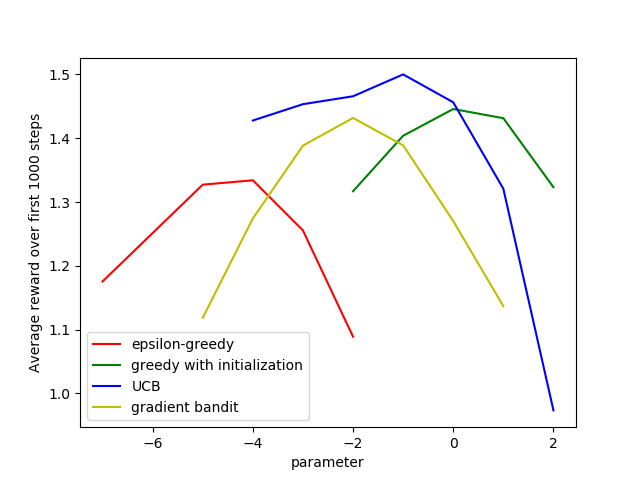
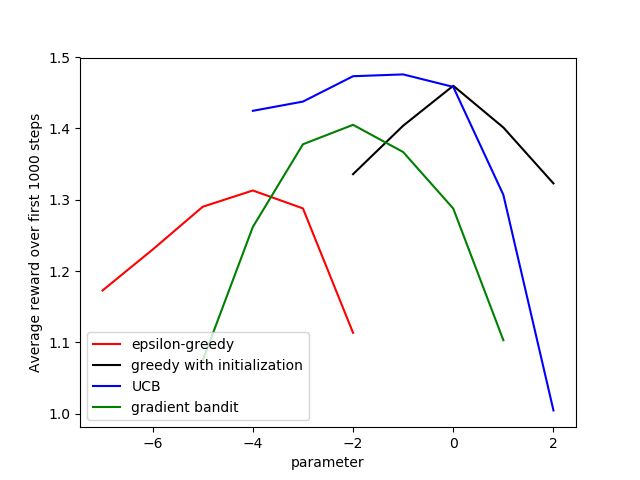
update chap02-exercise

diff --git a/chap02/exercise.py b/chap02/exercise.py
@@ -1,7 +1,7 @@
 # -*- coding: utf-8 -*-
 """
 @Time    : 2018/9/19 下午3:42
-@Author  : Guohai
+@Author  : Guohai (xuguohai7@163.com)
 @Declare :
     1. Codes for some exercises of chapter 2 in Sutton & Barto's Reinforcement Learning: An Introduction (2nd Edition)
     2. Most of codes are modified from ShangtongZhang, but rewrite the codes to make it easy to understand.
@@ -197,7 +197,7 @@ def simulate(bandits, runs, times):
 
 
 # ************************ Exercise 2.5 ************************
-def exercise2_5(runs=2000, times=10000):
+def exercise2_5(runs=20, times=100):        # 2000, 10000
     bandits = []
     bandits.append(EpsilonGreedy(epsilon=0.1, average_sample=True))
     bandits.append(EpsilonGreedy(epsilon=0.1, average_sample=False, step_size=0.1))
@@ -222,10 +222,11 @@ def exercise2_5(runs=2000, times=10000):
 
     plt.savefig('./images/exercise2_5.png')
     plt.show()
+    plt.close()
 
 
 # ************************ Exercise 2.11 ************************
-def exercise2_11(runs=2000, times=200000):
+def exercise2_11(runs=20, times=200):    # 2000, 200000
     generators = [
         lambda epsilon: EpsilonGreedy(epsilon=epsilon),
         lambda initial: EpsilonGreedy(average_sample=False, initial_value=initial, step_size=0.1),
@@ -264,6 +265,7 @@ def exercise2_11(runs=2000, times=200000):
 
     plt.savefig('./images/exercise2_11.png')
     plt.show()
+    plt.close()
 
 
 if __name__ == '__main__':

diff --git a/chap02/bandit.py b/chap02/bandit.py
@@ -10,7 +10,7 @@
 #######################################################################
 """
 @Time    : 2018/9/14 上午9:16
-@Author  : Guohai
+@Author  : Guohai (xuguohai7@163.com)
 @Declare :
     1.Codes for figures of chapter 2 in Sutton & Barto's Reinforcement Learning: An Introduction (2nd Edition)
     2.Most of codes are modified from ShangtongZhang, but rewrite the codes to make it easy to understand.

diff --git a/chap02/Chap2-Exercise.md b/chap02/Chap2-Exercise.md
@@ -13,12 +13,17 @@
 > and another action-value method using a constant step-size parameter, $\alpha$ = 0.1. Use
 > $\epsilon$ = 0.1 and longer runs, say of 10,000 steps.
 
-
+![exercise2_5](./images/exercise2_5.png)
 
 ## Exercises 2.11
 
-Exercise 2.11 (programming) Make a figure analogous to Figure 2.6 for the nonstationary
-case outlined in Exercise 2.5. Include the constant-step-size $\epsilon$-greedy algorithm with
-$\alpha$=0.1. Use runs of 200,000 steps and, as a performance measure for each algorithm and
-parameter setting, use the average reward over the last 100,000 steps.
+> Exercise 2.11 (programming) Make a figure analogous to Figure 2.6 for the nonstationary
+> case outlined in Exercise 2.5. Include the constant-step-size $\epsilon$-greedy algorithm with
+> $\alpha$=0.1. Use runs of 200,000 steps and, as a performance measure for each algorithm and
+> parameter setting, use the average reward over the last 100,000 steps.
 
+The **200,000** steps will take too much time, therefore I only run **20,000** steps. 
+
+![exercise2_11](./images/exercise2_11.png)
+
+> Feel free to discuss with me if you have any questions！【Homepage：https://guohai93.github.io  Email：xuguohai7@163.com】

diff --git a/README.md b/README.md
@@ -13,6 +13,8 @@ Python implementation for Sutton & Barto's [Reinforcement Learning: An Introduct
 4. [Figure 2.4: Average performance of UCB action selection on the 10-armed testbed.](https://github.com/Guohai93/reinforcement-learning-an-introduction/blob/master/chap02/Chap2-Figure.md)
 5. [Figure 2.5: Average performance of the gradient bandit algorithm.](https://github.com/Guohai93/reinforcement-learning-an-introduction/blob/master/chap02/Chap2-Figure.md)
 6. [Figure 2.6: A parameter study of the various bandit algorithms.](https://github.com/Guohai93/reinforcement-learning-an-introduction/blob/master/chap02/Chap2-Figure.md)
+7. [Exercise 2.5](https://github.com/Guohai93/reinforcement-learning-an-introduction/blob/master/chap02/Chap2-Exercise.md)
+8. [Exercise 2.11](https://github.com/Guohai93/reinforcement-learning-an-introduction/blob/master/chap02/Chap2-Exercise.md)
 
 ## Environment
 
